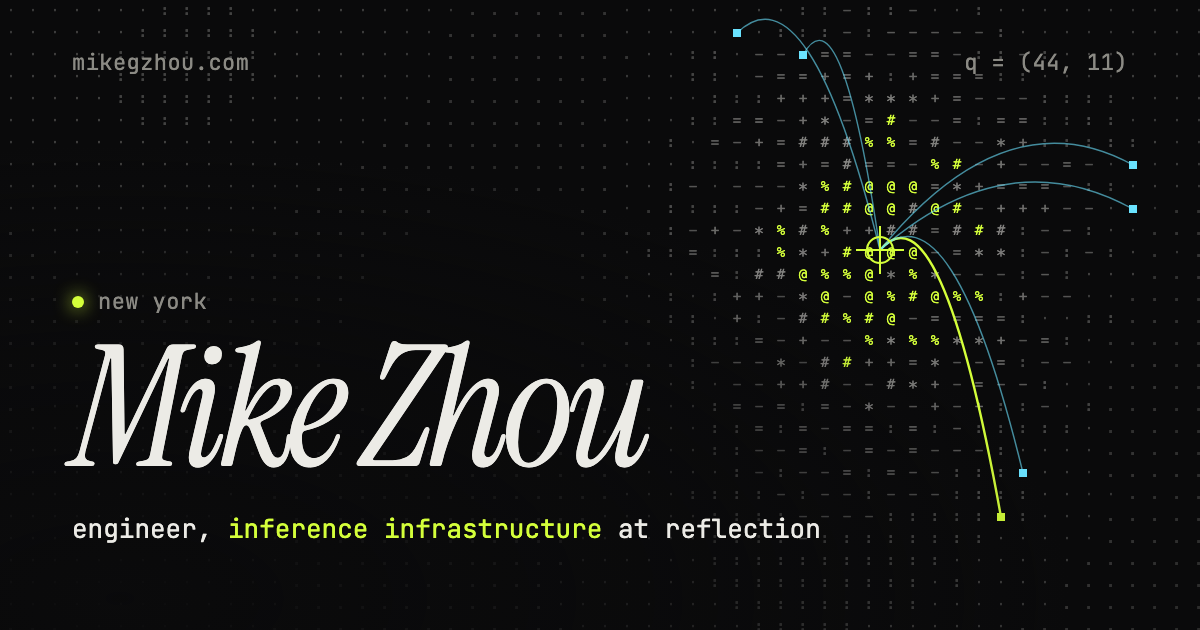
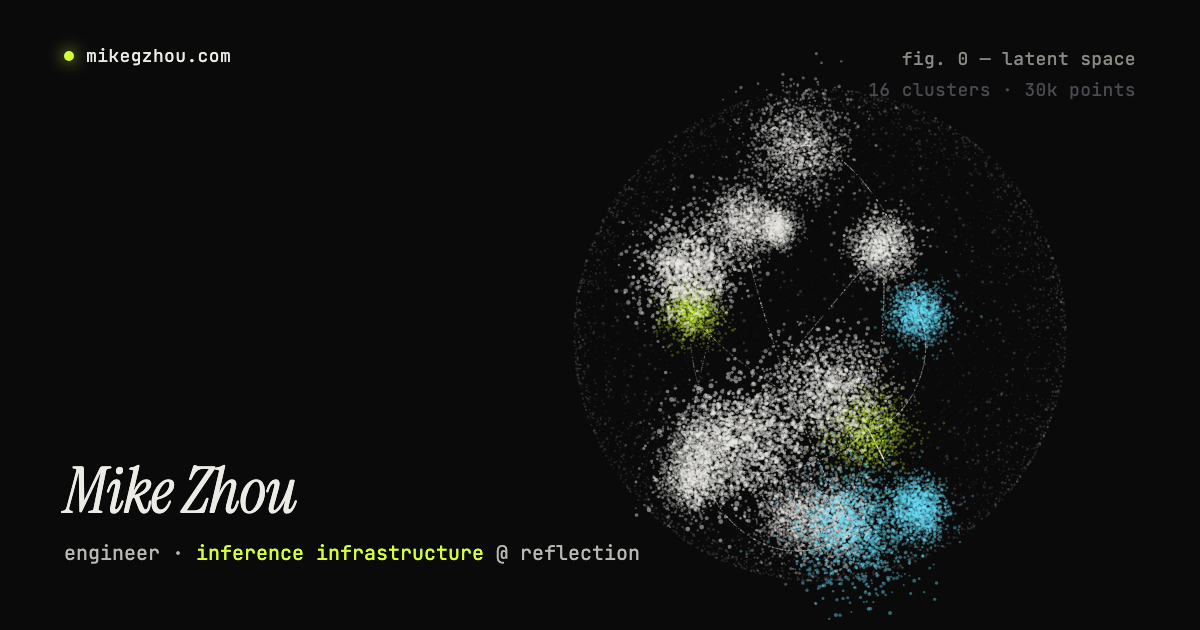
Redraw link-preview card with the latent-space visual

diff --git a/design/og.html b/design/og.html
@@ -3,29 +3,35 @@
 <style>
   html,body{margin:0;width:1200px;height:630px;background:#0a0a0b;overflow:hidden;color:#ecebe6}
   canvas{position:absolute;inset:0}
-  .v{position:absolute;inset:0;background:radial-gradient(110% 100% at 10% 95%,rgba(10,10,11,.96) 0%,rgba(10,10,11,.6) 40%,rgba(10,10,11,0) 72%)}
-  .c{position:absolute;left:72px;bottom:84px}
-  .m{font:500 22px "JetBrains Mono",monospace;color:#8b8a84;letter-spacing:.02em}
-  .d{display:inline-block;width:12px;height:12px;border-radius:50%;background:#d4ff3a;box-shadow:0 0 18px #d4ff3a;margin-right:14px;vertical-align:1px}
-  h1{font:italic 400 168px/0.9 "Instrument Serif",serif;letter-spacing:-.035em;margin:18px 0 26px}
-  .t{font:400 26px "JetBrains Mono",monospace;color:#ecebe6}.t b{color:#d4ff3a;font-weight:400}
-  .u{position:absolute;top:48px;left:72px}.r{position:absolute;top:48px;right:72px}
+  .m{font:400 18px "JetBrains Mono",monospace;color:#8b8a84;letter-spacing:.02em}
+  .tl{position:absolute;top:44px;left:64px;display:flex;align-items:center;gap:12px;color:#ecebe6}
+  .d{width:10px;height:10px;border-radius:50%;background:#d4ff3a;box-shadow:0 0 16px #d4ff3a}
+  .tr{position:absolute;top:44px;right:64px}
+  .c{position:absolute;left:64px;bottom:64px}
+  h1{font:italic 400 64px/1 "Instrument Serif",serif;letter-spacing:-.01em;margin:0 0 16px}
+  .t{font:400 20px "JetBrains Mono",monospace;color:#b9b8b2}.t b{color:#d4ff3a;font-weight:400}
+  .fig{position:absolute;right:64px;top:44px;text-align:right;line-height:1.7}
+  .fig span{color:#4a4a50}
 </style></head><body>
-<canvas id="c" width="1200" height="630"></canvas><div class="v"></div>
-<div class="m u">mikegzhou.com</div><div class="m r">q = (44, 11)</div>
-<div class="c"><div class="m"><span class="d"></span>new york</div><h1>Mike Zhou</h1>
-<div class="t">engineer, <b>inference infrastructure</b> at reflection</div></div>
+<canvas id="c" width="1200" height="630"></canvas>
+<div class="m tl"><span class="d"></span>mikegzhou.com</div>
+
+<div class="c"><h1>Mike Zhou</h1><div class="t">engineer · <b>inference infrastructure</b> @ reflection</div></div>
+<div class="m fig">fig. 0 — latent space<br><span>16 clusters · 30k points</span></div>
 <script>
-const x=document.getElementById('c').getContext('2d'),R=' .·:-=+*#%@',C=22,qx=880,qy=250;
-let s=7;const rnd=()=>(s=(s*16807)%2147483647)/2147483647;
-x.font='14px "JetBrains Mono",monospace';x.textAlign='center';x.textBaseline='middle';
-const keys=[];
-for(let r=0;r<29;r++)for(let c=0;c<55;c++){const X=c*C+11,Y=r*C+11,k=rnd(),d2=(X-qx)**2+(Y-qy)**2;
- let v=.16+.13*(Math.sin(c*.21)+Math.sin(r*.27+1)+Math.sin((c+r)*.13))/3+Math.exp(-d2/36000)*.7*(.4+k);v=Math.min(1,v);
- const ch=R[Math.min(10,v*11|0)];if(ch!==' '){x.fillStyle=v>.78?'#d4ff3a':`rgba(236,235,230,${.08+v*.6})`;x.fillText(ch,X,Y)}
- if(d2>5000&&d2<90000&&k>.93)keys.push([k,X,Y])}
-keys.sort((a,b)=>b[0]-a[0]).slice(0,6).forEach(([k,X,Y],i)=>{x.strokeStyle=i?'rgba(106,227,255,.6)':'#d4ff3a';x.lineWidth=i?1.4:2.4;
- x.beginPath();x.moveTo(qx,qy);x.quadraticCurveTo((qx+X)/2,Math.min(qy,Y)-70,X,Y);x.stroke();x.fillStyle=i?'#6ae3ff':'#d4ff3a';x.fillRect(X-4,Y-4,8,8)});
-x.strokeStyle='#d4ff3a';x.lineWidth=2;x.beginPath();x.arc(qx,qy,13,0,7);x.stroke();
-x.beginPath();x.moveTo(qx-24,qy);x.lineTo(qx+24,qy);x.moveTo(qx,qy-24);x.lineTo(qx,qy+24);x.stroke();
+const x=document.getElementById('c').getContext('2d');
+let s=9;const r=()=>(s=(s*16807)%2147483647)/2147483647;
+const g=()=>{let u=0;while(!u)u=r();return Math.sqrt(-2*Math.log(u))*Math.cos(6.283*r())};
+const sph=()=>{const z=r()*2-1,t=r()*6.283,q=Math.sqrt(1-z*z);return[q*Math.cos(t),q*Math.sin(t),z]};
+const CX=820,CY=335,R=210,ax=0.6,bx=0.32;
+const P=[];
+const cen=Array.from({length:16},()=>{const c=sph(),k=.45+r()*.5;return c.map(v=>v*k)});
+const kind=cen.map((_,i)=>i===3||i===9?2:i===5||i===12||i===14?3:0);
+cen.forEach((c,i)=>{const sg=.05+r()*.07;for(let j=0;j<1500;j++)P.push([c[0]+g()*sg,c[1]+g()*sg,c[2]+g()*sg,kind[i],1.4+r()*1.6])});
+for(let j=0;j<5000;j++){const q=sph(),k=1.08;P.push([q[0]*k,q[1]*k,q[2]*k,1,1+r()])}
+for(let l=0;l<12;l++){const A=cen[r()*16|0],B=cen[r()*16|0];for(let j=0;j<260;j++){const t=r(),f=1+Math.sin(t*Math.PI)*.35;P.push([(A[0]+(B[0]-A[0])*t)*f,(A[1]+(B[1]-A[1])*t)*f,(A[2]+(B[2]-A[2])*t)*f,0,1.1])}}
+const col={0:[236,235,230],1:[236,235,230],2:[212,255,58],3:[106,227,255]};
+const pr=P.map(([X,Y,Z,k,sz])=>{let a=ax,b=bx;let x1=X*Math.cos(a)+Z*Math.sin(a),z1=-X*Math.sin(a)+Z*Math.cos(a);let y2=Y*Math.cos(b)-z1*Math.sin(b),z2=Y*Math.sin(b)+z1*Math.cos(b);const p=2.8/(2.8+z2);return[CX+x1*R*p,CY-y2*R*p,z2,k,sz*p]}).sort((a,b)=>b[2]-a[2]);
+
+for(const[px,py,z,k,sz]of pr){const near=Math.min(1,Math.max(0,1-(z+1.1)/2.2));const al=(k===1?.16:.5)*(.28+.72*near);const c=col[k];x.fillStyle=`rgba(${c[0]},${c[1]},${c[2]},${al})`;x.beginPath();x.arc(px,py,sz*.55,0,7);x.fill()}
 </script></body></html>
